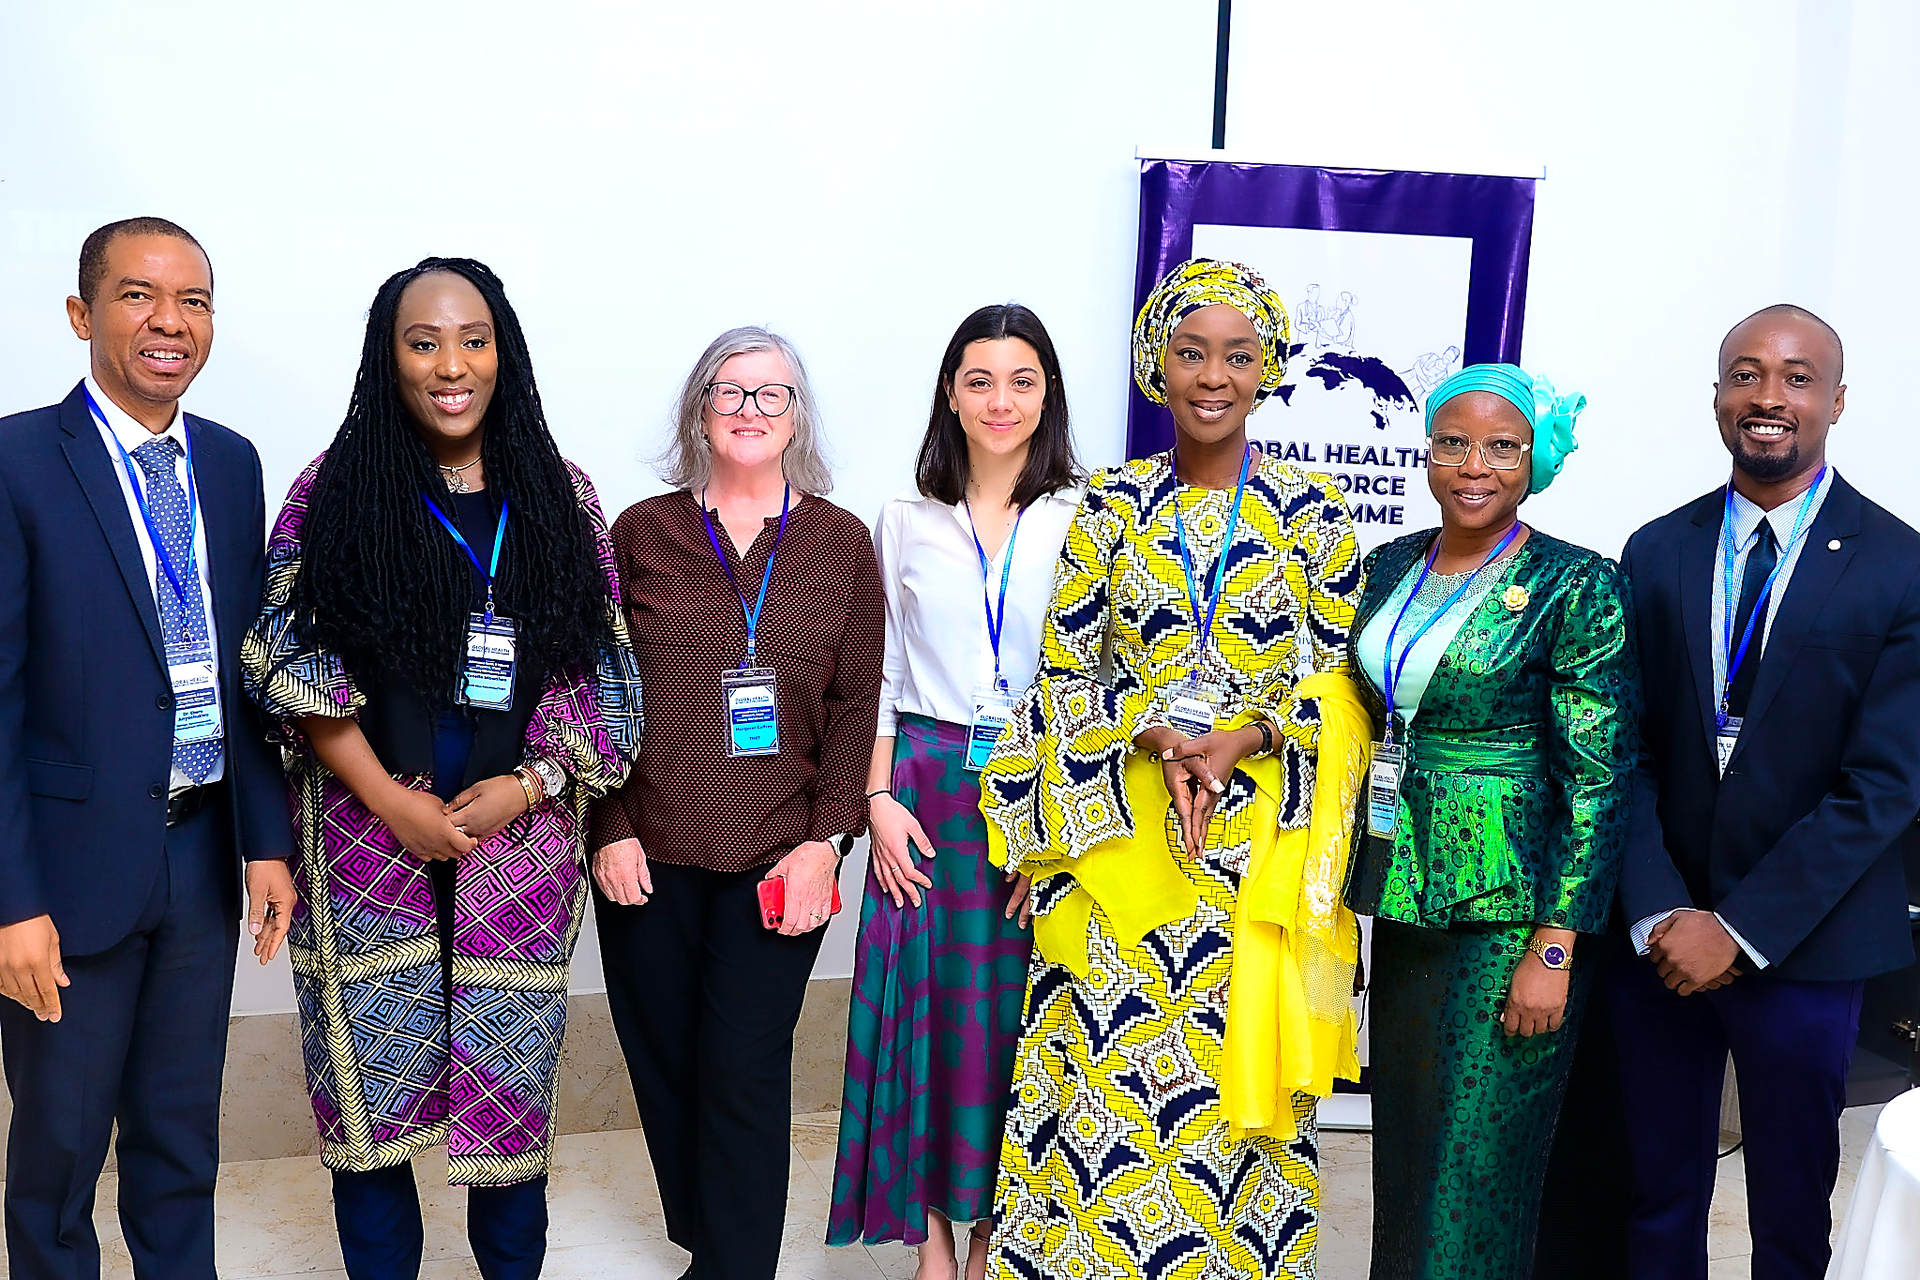
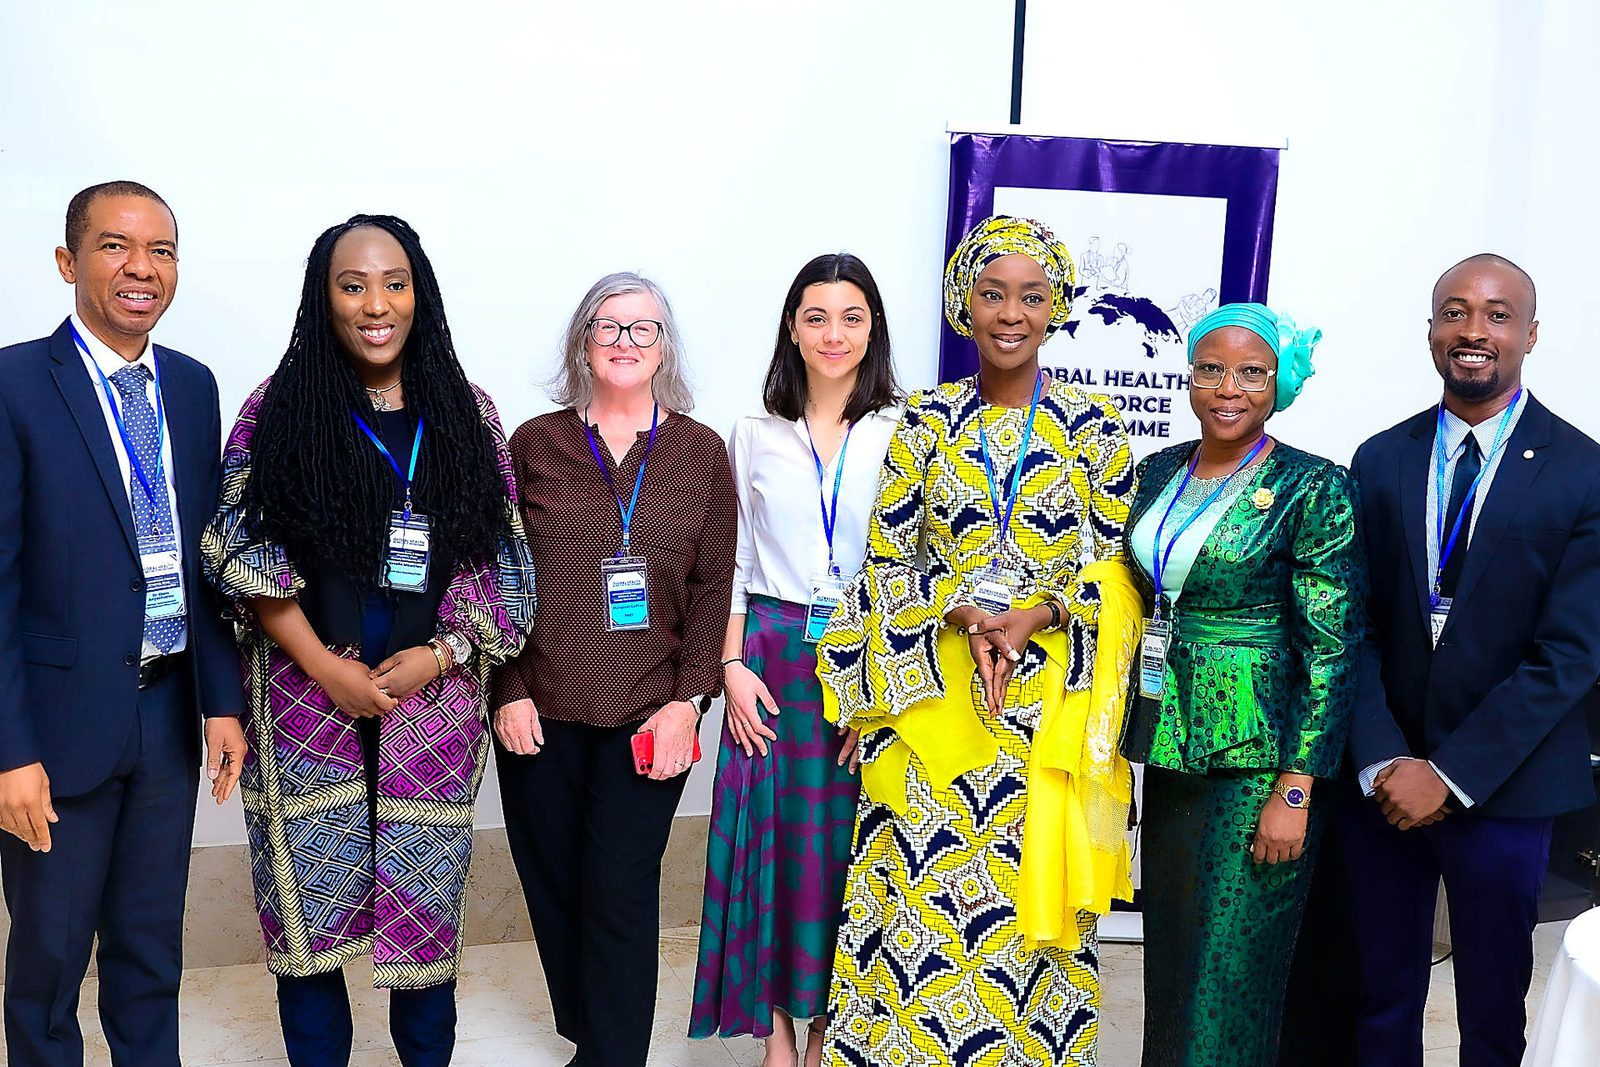
Add gallery photos, fix Trinity Challenge entry, compress large images
- Add activity photos (Nairobi workshop, Cohort 4, NICD course, CPHIA,
  West Africa review, FCT pilot, Trinity Challenge)
- Fix syntax error in the Trinity Challenge gallery entry
- Point Cohort 4 project media at the saved activity photos
- Resize images over 500 KB to max 1600px (e.g. 8.3 MB -> 266 KB)
- Rename trinity-challenge-2025.JPG to .jpg for case-sensitive hosts

diff --git a/data/gallery.ts b/data/gallery.ts
@@ -43,8 +43,8 @@ export const activities: Activity[] = [
     category: "Workshop",
     description: "Facilitating sessions on sustainability planning, resource mobilisation, diagnostics and exit & continuity.",
     photos: [
-      { alt: "Charles facilitating a workshop session in Nairobi", caption: "Workshop facilitation, Nairobi", suggested: "/images/activities/nairobi-workshop-1.jpg" },
-      { alt: "Workshop participants in group work", caption: "Group work session, Nairobi", suggested: "/images/activities/nairobi-workshop-2.jpg" },
+      { alt: "Charles facilitating a workshop session in Nairobi", caption: "Workshop facilitation, Nairobi", src: "/images/activities/nairobi-workshop-1.jpg" },
+      { alt: "Workshop participants in group work", caption: "Group work session, Nairobi", src: "/images/activities/nairobi-workshop-2.jpg" },
     ],
     projectId: "kenya-workshop",
     enabled: true,
@@ -70,12 +70,11 @@ export const activities: Activity[] = [
     category: "Programme",
     description: "Learning sessions, mentorship and capstone pitches with 25 interns from 14 African countries.",
     photos: [
-      { alt: "Screenshot of a Cohort 4 learning session", caption: "Cohort 4 learning session", suggested: "/images/activities/cohort4-session.jpg" },
-      { alt: "Capstone pitch presentations", caption: "Capstone pitches", suggested: "/images/activities/cohort4-capstone.jpg" },
+      { alt: "Screenshot of a Cohort 4 learning session", caption: "Cohort 4 learning session", src: "/images/activities/cohort4-session.jpg" },
+      { alt: "Capstone pitch presentations", caption: "Capstone pitches", src: "/images/activities/cohort4-capstone.jpg" },
     ],
     projectId: "cohort-4",
     enabled: true,
-    verify: "Add the programme month(s) for accurate ordering. If using session screenshots, get participants' consent.",
   },
   {
     id: "nicd-course",
@@ -86,8 +85,8 @@ export const activities: Activity[] = [
     category: "Training",
     description: "Regional training course on antimicrobial resistance in bacterial pathogens (NICD / WCS), including an oral presentation.",
     photos: [
-      { alt: "Course participants in Johannesburg", caption: "Course cohort, Johannesburg", suggested: "/images/activities/nicd-course-group.jpg" },
-      { alt: "Charles giving an oral presentation", caption: "Oral presentation", suggested: "/images/activities/nicd-course-presentation.jpg" },
+      { alt: "Course participants in Johannesburg", caption: "Course cohort, Johannesburg", src: "/images/activities/nicd-course-group.jpg" },
+      { alt: "Charles giving an oral presentation", caption: "Oral presentation", src: "/images/activities/nicd-course-presentation.jpg" },
     ],
     enabled: true,
   },
@@ -99,9 +98,8 @@ export const activities: Activity[] = [
     location: "Durban, South Africa",
     category: "Conference",
     description: "Attended in person and presented an abstract on tackling AMR across borders through mentorship and capacity building at the 4th International Conference on Public Health in Africa.",
-    photos: [{ alt: "Charles at CPHIA 2025", caption: "CPHIA 2025", suggested: "/images/activities/cphia-2025.jpg" }],
+    photos: [{ alt: "Charles at CPHIA 2025", caption: "CPHIA 2025", src: "/images/activities/cphia-20251.jpg" }],
     enabled: true,
-    verify: "Confirm dates (brief said December).",
   },
   {
     id: "wa-review",
@@ -111,9 +109,8 @@ export const activities: Activity[] = [
     location: "Abuja, Nigeria",
     category: "Stakeholder engagement",
     description: "Regional review meeting where Ducit Blue Foundation presented on the role of CSOs in the AMR response.",
-    photos: [{ alt: "Regional review meeting in Abuja", caption: "Regional review, Abuja", suggested: "/images/activities/wa-regional-review.jpg" }],
+    photos: [{ alt: "Regional review meeting in Abuja", caption: "Regional review, Abuja", src: "/images/activities/wa-regional-review.jpg" }],
     enabled: true,
-    verify: "Confirm Charles' role at the meeting.",
   },
   {
     id: "antibiotic-guardian",
@@ -134,7 +131,10 @@ export const activities: Activity[] = [
     location: "Abuja, Nigeria",
     category: "Workshop",
     description: "Workshop at which the Best Digital Innovative Solution recognition certificate was presented.",
-    photos: [{ alt: "Trinity Challenge workshop, Abuja", caption: "Trinity Challenge workshop", suggested: "/images/activities/trinity-challenge-2025.jpg" }],
+    photos: [
+      { alt: "Trinity Challenge workshop, Abuja", caption: "Trinity Challenge workshop", src: "/images/activities/trinity-challenge-2025.jpg" },
+      { alt: "Trinity Challenge workshop participants, Abuja", caption: "Trinity Challenge workshop, Abuja", src: "/images/activities/trinity-challenge-2025-2.jpg" },
+    ],
     enabled: true,
   },
   {
@@ -145,7 +145,7 @@ export const activities: Activity[] = [
     location: "Nigeria",
     category: "Community",
     description: "National onboarding and knowledge-exchange sessions with members of the 500+ youth network.",
-    photos: [{ alt: "Community of Practice onboarding session", caption: "CoP onboarding session, 27 March 2026", src: "/images/activities/cop-onboarding.jpg" }],
+    photos: [{ alt: "Community of Practice onboarding session", caption: "CoP onboarding session", src: "/images/activities/cop-onboarding.jpg" }],
     projectId: "youth-cop",
     enabled: true,
   },
@@ -157,10 +157,9 @@ export const activities: Activity[] = [
     location: "Federal Capital Territory, Nigeria",
     category: "Stakeholder engagement",
     description: "Engagement meetings for the proposed pilot with Ducit Blue Foundation and EcoMed Nexus Foundation.",
-    photos: [{ alt: "Stakeholder engagement meeting for the FCT pilot", caption: "Pilot stakeholder engagement", suggested: "/images/activities/fct-pilot-engagement.jpg" }],
+    photos: [{ alt: "Stakeholder engagement meeting for the FCT pilot", caption: "Pilot stakeholder engagement", src: "/images/activities/fct-pilot-engagement.jpg" }],
     projectId: "fct-pilot",
     enabled: true,
-    verify: "Confirm a meeting actually took place and its date before adding a photo.",
   },
 
   /* ---------------------------------------------------------------

diff --git a/data/projects.ts b/data/projects.ts
@@ -113,8 +113,8 @@ export const projects: Project[] = [
     pillars: ["amr-oh", "policy", "youth", "programmes", "data"],
     visual: "pipeline",
     media: [
-      { alt: "Cohort 4 virtual learning session", caption: "Cohort 4 learning session", suggested: "/images/projects/cohort4-session.jpg" },
-      { alt: "Capstone pitch presentations", caption: "Capstone pitches", suggested: "/images/projects/cohort4-capstone.jpg" },
+      { alt: "Cohort 4 virtual learning session", caption: "Cohort 4 learning session", src: "/images/activities/cohort4-session.jpg" },
+      { alt: "Capstone pitch presentations", caption: "Capstone pitches", src: "/images/activities/cohort4-capstone.jpg" },
     ],
     verify: "Confirm the programme has concluded (status 'completed') and whether the alumni network is formally established.",
   },
